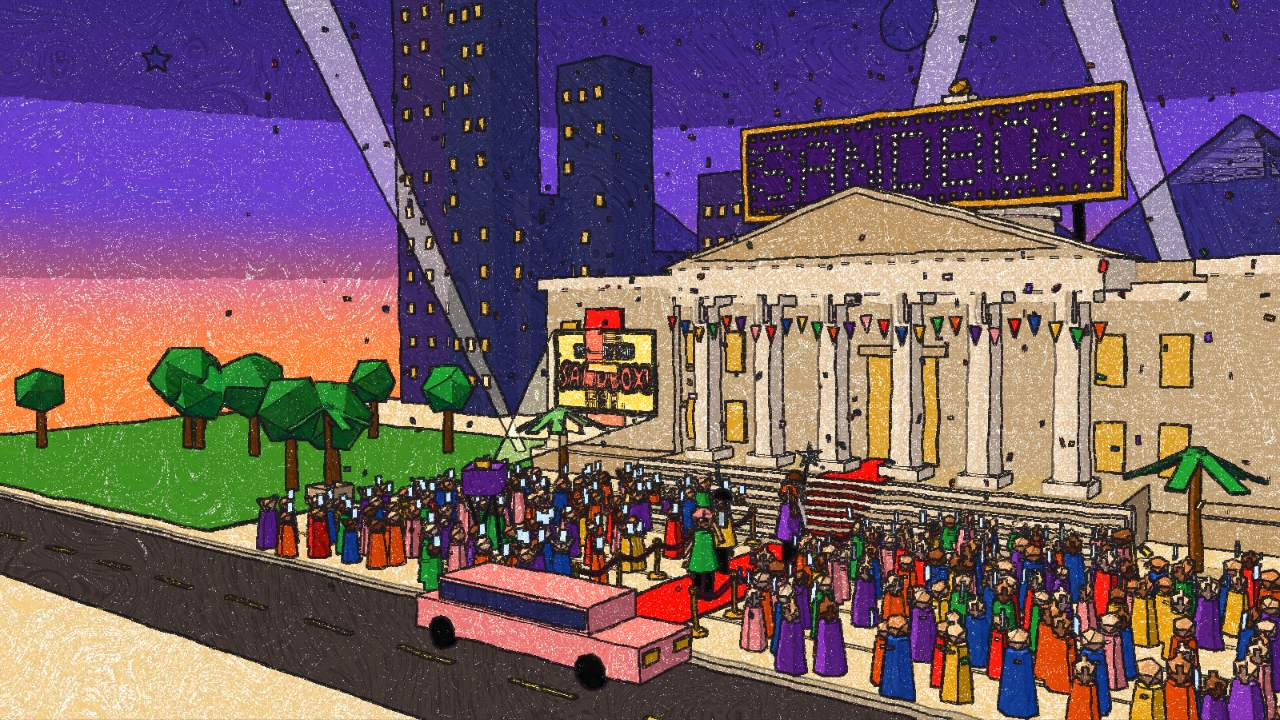
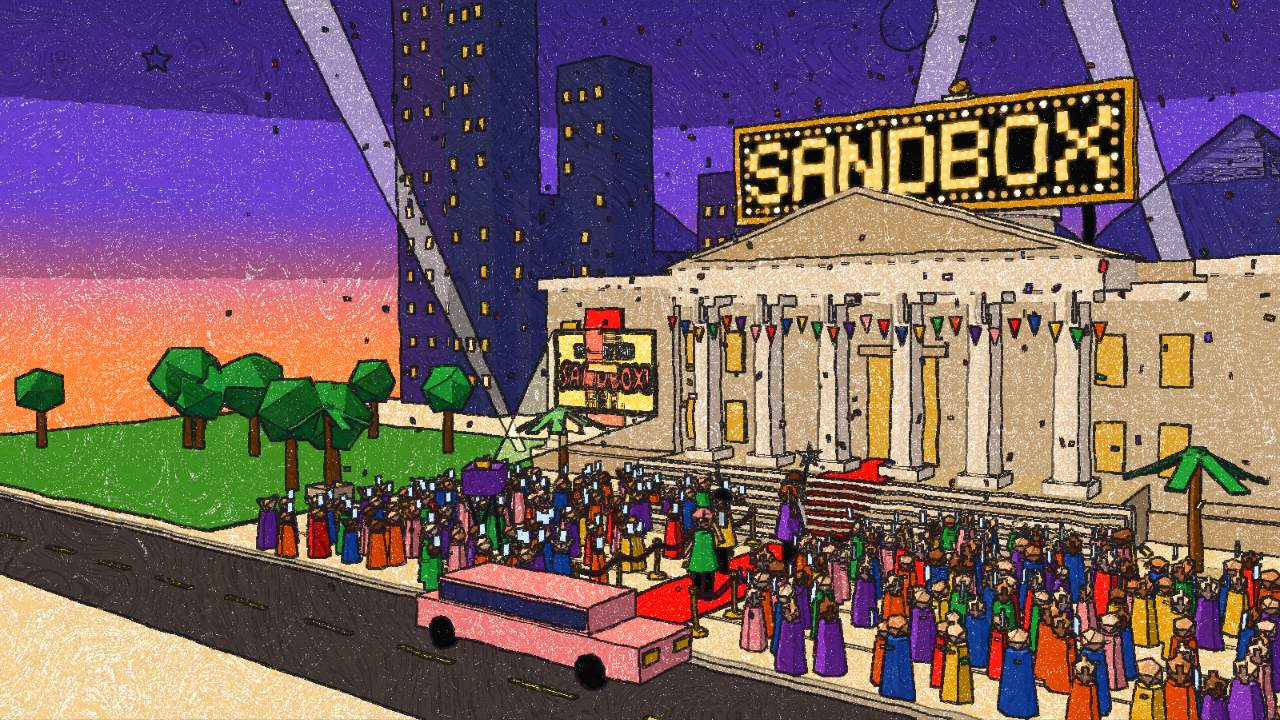
feat: make the SANDBOX marquee glow and read clearly
The marquee letters were small unlit bulbs, each of which the crayon pass
outlined in ink, on a purple board against a purple sky, so the word was
hard to read. Now the letters are solid, touching pixels of warm marquee
yellow on an ink-black board with a gold frame. Twinkling bulbs sit on top,
and a chaser runs round the border. The letters never dim.

The sign uses a new glowMaterial() that writes alpha 0 into the render
target. The crayon pass draws those pixels at full colour with no ink or
paper skips, and puts a hatched amber halo around them. The posters are
regenerated to match.

Changed region(s): [[0.5625, 0.0917, 0.9062, 0.3361]]

diff --git a/src/hero/scene.js b/src/hero/scene.js
@@ -29,6 +29,7 @@ import {
   Mesh,
   MeshBasicMaterial,
   MeshLambertMaterial,
+  NoBlending,
   Object3D,
   PerspectiveCamera,
   PlaneGeometry,
@@ -492,71 +493,104 @@ function plaza(random) {
   return b.mesh();
 }
 
+/**
+ * An unlit material that marks its pixels as glowing: it writes alpha 0 into
+ * the render target, which the crayon pass reads as "light source" (full
+ * colour, no ink, a hatched halo around it). Works on instanced meshes.
+ */
+export function glowMaterial() {
+  return new ShaderMaterial({
+    blending: NoBlending,
+    vertexShader: /* glsl */ `
+      varying vec3 vColor;
+      void main() {
+        vColor = vec3(1.0);
+        #ifdef USE_INSTANCING_COLOR
+          vColor = instanceColor;
+        #endif
+        gl_Position = projectionMatrix * modelViewMatrix * instanceMatrix * vec4(position, 1.0);
+      }`,
+    fragmentShader: /* glsl */ `
+      varying vec3 vColor;
+      void main() { gl_FragColor = vec4(vColor, 0.0); }`,
+  });
+}
+
+/**
+ * SANDBOX in marquee lights on an ink-black board: solid, touching letter
+ * pixels that glow warm yellow, with bulbs on top that twinkle, and a chaser
+ * border. The letters themselves never dim, so the word always reads.
+ */
 function marqueeSign() {
   const group = new Group();
   const b = new Batch();
-  const W = 17.6;
-  const H = 4.4;
+  const W = 18.4;
+  const H = 4.6;
   const y = 16.2;
   const z = -7.2;
-  b.box(W, H, 0.5, '#3B1E6E', 0, y, z);
-  b.box(W + 0.6, 0.35, 0.7, GOLD, 0, y + H / 2, z);
-  b.box(W + 0.6, 0.35, 0.7, GOLD, 0, y - H / 2, z);
+  b.box(W, H, 0.5, INK, 0, y, z);
+  b.box(W + 0.7, 0.4, 0.7, GOLD, 0, y + H / 2, z);
+  b.box(W + 0.7, 0.4, 0.7, GOLD, 0, y - H / 2, z);
   for (const sx of [-1, 1]) {
-    b.box(0.35, H + 0.35, 0.7, GOLD, (sx * (W + 0.25)) / 2, y, z);
+    b.box(0.4, H + 0.4, 0.7, GOLD, (sx * (W + 0.3)) / 2, y, z);
     b.box(0.35, 4, 0.35, INK, sx * (W / 2 - 1.5), y - H / 2 - 2, z - 0.2);
   }
   group.add(b.mesh());
 
-  const spacing = 0.4;
-  const letters = bulbLayout('SANDBOX').map((p) => ({
+  const spacing = 0.42;
+  const pixels = bulbLayout('SANDBOX').map((p) => ({
     x: p.x * spacing,
     y: y + p.y * spacing,
-    phase: p.letter,
-    edge: false,
+    column: Math.round(p.x),
   }));
+  const letters = new InstancedMesh(new BoxGeometry(spacing, spacing, 0.12), glowMaterial(), pixels.length);
+  const bulbs = new InstancedMesh(new IcosahedronGeometry(0.12, 0), glowMaterial(), pixels.length);
+  const m = new Matrix4();
+  const letterColor = new Color('#FFC93A');
+  pixels.forEach((p, i) => {
+    letters.setMatrixAt(i, m.makeTranslation(p.x, p.y, z + 0.3));
+    letters.setColorAt(i, letterColor);
+    bulbs.setMatrixAt(i, m.makeTranslation(p.x, p.y, z + 0.42));
+  });
+
   // Chaser bulbs around the border.
-  /** @type {{ x: number, y: number, phase: number, edge: boolean }[]} */
+  /** @type {{ x: number, y: number, phase: number }[]} */
   const border = [];
-  const nx = 30;
+  const nx = 32;
   const ny = 7;
   for (let i = 0; i < nx; i++) {
-    const x = -W / 2 + 0.35 + (i / (nx - 1)) * (W - 0.7);
-    border.push(
-      { x, y: y + H / 2 - 0.42, phase: i, edge: true },
-      { x, y: y - H / 2 + 0.42, phase: nx - i, edge: true },
-    );
+    const x = -W / 2 + 0.4 + (i / (nx - 1)) * (W - 0.8);
+    border.push({ x, y: y + H / 2 - 0.45, phase: i }, { x, y: y - H / 2 + 0.45, phase: nx - i });
   }
   for (let i = 1; i < ny - 1; i++) {
-    const yy = y - H / 2 + 0.42 + (i / (ny - 1)) * (H - 0.84);
-    border.push(
-      { x: -W / 2 + 0.35, y: yy, phase: i, edge: true },
-      { x: W / 2 - 0.35, y: yy, phase: i + 3, edge: true },
-    );
+    const yy = y - H / 2 + 0.45 + (i / (ny - 1)) * (H - 0.9);
+    border.push({ x: -W / 2 + 0.4, y: yy, phase: i }, { x: W / 2 - 0.4, y: yy, phase: i + 3 });
   }
-  const all = [...letters, ...border];
-  const bulbs = new InstancedMesh(new IcosahedronGeometry(0.15, 0), new MeshBasicMaterial({ fog: false }), all.length);
-  const m = new Matrix4();
-  all.forEach((p, i) => {
-    m.makeTranslation(p.x, p.y, z + 0.3);
-    bulbs.setMatrixAt(i, m);
+  const chasers = new InstancedMesh(new IcosahedronGeometry(0.17, 0), glowMaterial(), border.length);
+  border.forEach((p, i) => chasers.setMatrixAt(i, m.makeTranslation(p.x, p.y, z + 0.3)));
+  [bulbs, chasers].forEach((mesh) => {
+    mesh.setColorAt(0, letterColor);
+    mesh.instanceColor?.setUsage(DynamicDrawUsage);
   });
-  bulbs.instanceColor?.setUsage(DynamicDrawUsage);
-  group.add(bulbs);
+  letters.name = 'marquee-letters';
+  bulbs.name = 'marquee-bulbs';
+  chasers.name = 'marquee-chasers';
+  group.add(letters, bulbs, chasers);
 
-  const on = new Color('#FFF6C8');
-  const warm = new Color(YELLOW);
-  const off = new Color('#8A6A2A');
+  const white = new Color('#FFFDF0');
+  const warm = new Color('#FFE38A');
+  const amber = new Color('#E39A2A');
   /** @param {number} t */
   function update(t) {
     const step = Math.floor(t * 6);
-    all.forEach((p, i) => {
-      let c;
-      if (p.edge) c = (p.phase + step) % 3 === 0 ? on : off;
-      else c = Math.floor(t * 1.5) % 4 === 3 ? ((step + p.phase) % 7 < 4 ? warm : off) : on;
-      bulbs.setColorAt(i, c);
+    // A slow sparkle sweeping across the letters, and a chase around the border.
+    pixels.forEach((p, i) =>
+      bulbs.setColorAt(i, (p.column + step) % 5 === 0 || (i * 7 + step) % 23 === 0 ? white : warm),
+    );
+    border.forEach((p, i) => chasers.setColorAt(i, (p.phase + step) % 3 === 0 ? white : amber));
+    [bulbs, chasers].forEach((mesh) => {
+      if (mesh.instanceColor) mesh.instanceColor.needsUpdate = true;
     });
-    if (bulbs.instanceColor) bulbs.instanceColor.needsUpdate = true;
   }
   return { group, update };
 }

diff --git a/src/hero/crayon.js b/src/hero/crayon.js
@@ -2,7 +2,7 @@
 // this full-screen shader redraws it on paper: hue-preserving posterised colour,
 // waxy coverage that skips the paper's grain, hatched strokes that follow the
 // luminance gradient near edges and run diagonally elsewhere, cross-hatching in
-// the darks, a little colour bleed, and wobbly ink outlines from a colour Sobel
+// the darks, a little colour bleed, glowing light sources with a halo, and wobbly ink outlines from a colour Sobel
 // and a depth Laplacian (on inverse depth, which is flat across any plane, so
 // the ground doesn't sprout contour lines). The stroke noise is reseeded a few times a second ("boil"); the
 // paper grain stays put.
@@ -31,6 +31,7 @@ uniform float uNear;
 uniform float uFar;
 uniform vec3 uPaper;
 uniform vec3 uInk;
+uniform vec3 uHalo;
 varying vec2 vUv;
 
 float hash(vec2 p) {
@@ -50,6 +51,8 @@ vec3 toSRGB(vec3 c) {
   return mix(c * 12.92, 1.055 * pow(c, vec3(1.0 / 2.4)) - 0.055, step(0.0031308, c));
 }
 vec3 colAt(vec2 uv) { return toSRGB(texture2D(tColor, uv).rgb); }
+// Light sources (the marquee) write alpha 0; everything else writes 1.
+float glowAt(vec2 uv) { return 1.0 - texture2D(tColor, uv).a; }
 // 1 / view distance: affine in screen space across a plane.
 float invDepthAt(vec2 uv) {
   float z = texture2D(tDepth, uv).x;
@@ -114,9 +117,24 @@ void main() {
   float dark = smoothstep(0.45, 0.1, Lq) * smoothstep(0.45, 0.8, s2) * smoothstep(0.2, 0.7, grain + 0.3);
   col = mix(col, col * 0.62, dark);
 
+  // Light sources: a hatched halo around them, and no ink where they shine.
+  float glow = glowAt(uv);
+  float halo = 0.0;
+  for (int i = 0; i < 8; i++) {
+    vec2 d = vec2(cos(float(i) * 0.785398 + seed.x), sin(float(i) * 0.785398 + seed.x)) * uPx * texel;
+    halo += glowAt(uv + d * 3.5) + 0.5 * glowAt(uv + d * 7.5);
+  }
+  halo = clamp(halo / 9.0, 0.0, 1.0) * (1.0 - glow);
+  col = mix(col, uHalo, smoothstep(0.1, 0.8, halo) * (0.25 + 0.45 * s));
+  edge *= 1.0 - max(glow, smoothstep(0.15, 0.5, halo));
+
   // Wobbly ink outline, broken where the wax skips.
   float skip = smoothstep(0.2, 0.55, noise(css * vec2(0.6, 0.9) + seed) * 0.7 + grain * 0.6);
   col = mix(col, uInk, edge * skip * 0.92);
+
+  // The light itself: solid wax, warmed toward white, no paper showing through.
+  vec3 lit = mix(base, vec3(1.0, 0.98, 0.9), 0.3) * (0.95 + 0.08 * s);
+  col = mix(col, lit, glow);
 
   gl_FragColor = vec4(col, 1.0);
 }
@@ -143,6 +161,7 @@ export function createCrayonPass({ color, depth, near, far }) {
       uFar: { value: far },
       uPaper: { value: srgb(PAPER) },
       uInk: { value: srgb(INK) },
+      uHalo: { value: srgb('#FFB02E') },
     },
   });
   const scene = new Scene();

diff --git a/AGENTS.md b/AGENTS.md
@@ -38,6 +38,7 @@ html-validate turns off three stylistic rules (`attr-quotes`, `doctype-style`, `
 
 - `#heroScene` holds the poster image and, once `hero.js` runs, the WebGL canvas. Its `data-state` is `poster`, `running`, `paused` (tab hidden or hero off-screen), `static` (prefers-reduced-motion: one still frame) or `fallback` (no WebGL2, so the poster stays). The canvas's `data-frames` counts rendered frames; the e2e suite reads both.
 - The scene is a pure function of time (`update(t)`), and the reduced-motion still and the posters use the same moment, so re-running `npm run poster` after a scene change keeps them matching.
+- Light sources (the SANDBOX marquee) use `glowMaterial()` from `scene.js`, which writes alpha 0 into the render target. The crayon pass draws those pixels at full colour with no ink and puts a hatched halo around them. Every other material must keep writing alpha 1.
 - Phones (`pickQuality` in `src/hero/quality.js`) get a smaller crowd, fewer particles, two searchlights and about 30 fps. The device pixel ratio is capped at 1.5.
 - `three` and `esbuild` are in `dependencies`, not `devDependencies`, because Vercel installs with `npm ci --omit=dev` and then runs the build.
 - `npm install` with npm 11 on Windows has dropped rolldown's and lightningcss's optional platform packages from `package-lock.json`, which breaks `npm ci` elsewhere. After changing dependencies, check that `"node_modules/@rolldown/binding-linux-x64-gnu"` is still in the lockfile.
